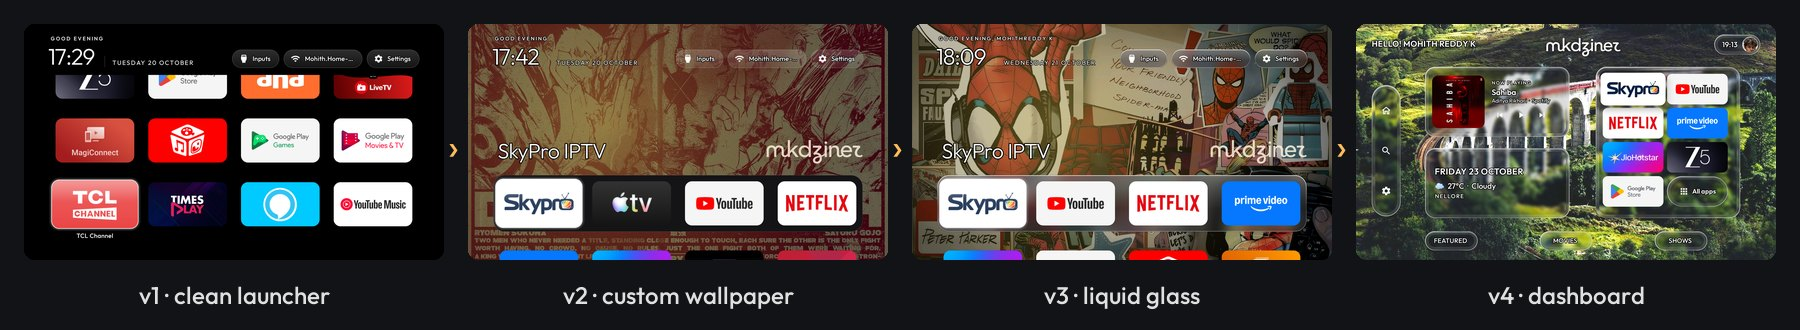
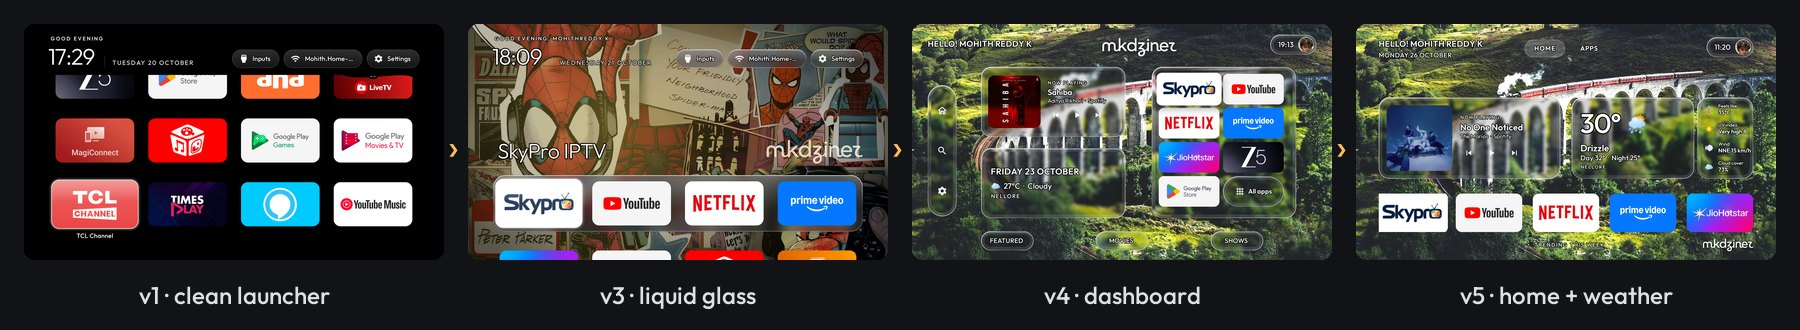
v5 home: tabs, weather details, five apps, trending page below

diff --git a/README.md b/README.md
@@ -39,11 +39,11 @@ inspired by Apple's tvOS 2026 and built as a native Android TV launcher.
 |---|---|
 | 🧹 **Debloat over Wi-Fi** | 11 telemetry, ad and promo apps switched off with `pm disable-user`. Nothing uninstalled, everything reversible. |
 | 🪟 **Liquid glass UI** | Clear glass cards with a light blur, edge refraction and a specular rim. Android 9 has no live blur, so it's computed once from the wallpaper. |
-| 👋 **Personal header** | Greeting with your name, plus a status pill with the time and your photo. The pill opens Inputs, Wi-Fi and Settings. |
+| 👋 **Personal header** | Greeting with your name and the date, **HOME · APPS** tabs, and a status pill with the time and your photo that opens Inputs, Wi-Fi and Settings. |
 | 🎵 **Now playing** | Shows whatever is playing (Spotify, YouTube Music…) with album art and controls. Remote media keys work too. |
-| 🌤 **Date & weather** | Live weather for your city from [Open-Meteo](https://open-meteo.com): free, no account. |
-| 📱 **Apps panel** | Seven favourites plus **All apps** for the full grid. |
-| 🎬 **Featured · Movies · Shows** | This week's trending titles from [TMDB](https://www.themoviedb.org), grouped into genre stacks. Select one to search it on the TV. |
+| 🌤 **Weather** | Live from [Open-Meteo](https://open-meteo.com) (free, no account): temperature, condition, day / night, feels like, UV index, wind and cloud cover. |
+| 📱 **Favourite apps** | Five favourite apps on the home screen; the **APPS** tab opens the full grid. |
+| 🎬 **Trending this week** | Press **Down** on the home screen and a page slides up with this week's trending titles from [TMDB](https://www.themoviedb.org), grouped into genre stacks. Select one to search it on the TV. |
 | ⚡ **Faster TV** | Animations at 0.5× and the main apps pre-compiled. |
 | ↩ **Fully reversible** | A backup comes first, and one command restores the stock TV. |
 
@@ -51,17 +51,17 @@ inspired by Apple's tvOS 2026 and built as a native Android TV launcher.
 
 | | |
 |---|---|
-| ![Dashboard home](docs/screenshots/home.jpg) | ![Control panel](docs/screenshots/control-panel.jpg) |
-| **Dashboard:** rail, now playing, date & weather, apps | **Control panel:** the status pill opens Inputs, Wi-Fi and Settings |
-| ![Shows](docs/screenshots/shows.jpg) | ![Movies](docs/screenshots/movies.jpg) |
-| **Shows:** trending by genre, with a glass music bar | **Movies:** posters from TMDB, refreshed weekly |
+| ![Home](docs/screenshots/home.jpg) | ![Trending this week](docs/screenshots/trending.jpg) |
+| **Home:** greeting, HOME · APPS tabs, now playing, weather with details, five favourite apps | **Trending (press Down):** this week's titles by genre from TMDB, plus a glass music bar |
+| ![Control panel](docs/screenshots/control-panel.jpg) | ![Stock Google TV](docs/screenshots/stock-google-tv.jpg) |
+| **Control panel:** the status pill opens Inputs, Wi-Fi and Settings *(previous version)* | **Before:** the stock Google TV with sponsored rows |
 
 ### Design journey
 
 ![v1 clean launcher, v2 custom wallpaper, v3 liquid glass, v4 dashboard](docs/design/evolution.jpg)
 
-The final layout started as Figma frames ([dashboard](docs/design/figma-dashboard.jpg) ·
-[first layout](docs/design/figma-first-layout.jpg)) and was refined on the real TV through four versions.
+Each version started as Figma frames ([v5 home](docs/design/figma-home-v5.jpg) · [v4 dashboard](docs/design/figma-dashboard.jpg) ·
+[first layout](docs/design/figma-first-layout.jpg)) and was refined on the real TV.
 
 ## How it works
 

diff --git a/CHANGELOG.md b/CHANGELOG.md
@@ -1,5 +1,12 @@
 # Changelog
 
+## v5: Home + weather (26 October 2026)
+- New home from the Figma structure: greeting + date, HOME · APPS tabs, time + photo pill.
+- Large now-playing card and a weather card with a details panel (feels like, UV index, wind, cloud cover, day / night).
+- Five favourite apps; the APPS tab opens the full grid.
+- Trending page sits below the home screen: Down slides it up, Up slides it back.
+- mkdziner logo moved to the bottom right.
+
 ## v4: Dashboard (23 October 2026)
 - New dashboard home from the Figma design: greeting, time + photo pill, glass rail, now-playing card,
   date & weather card, apps panel, Featured / Movies / Shows.
